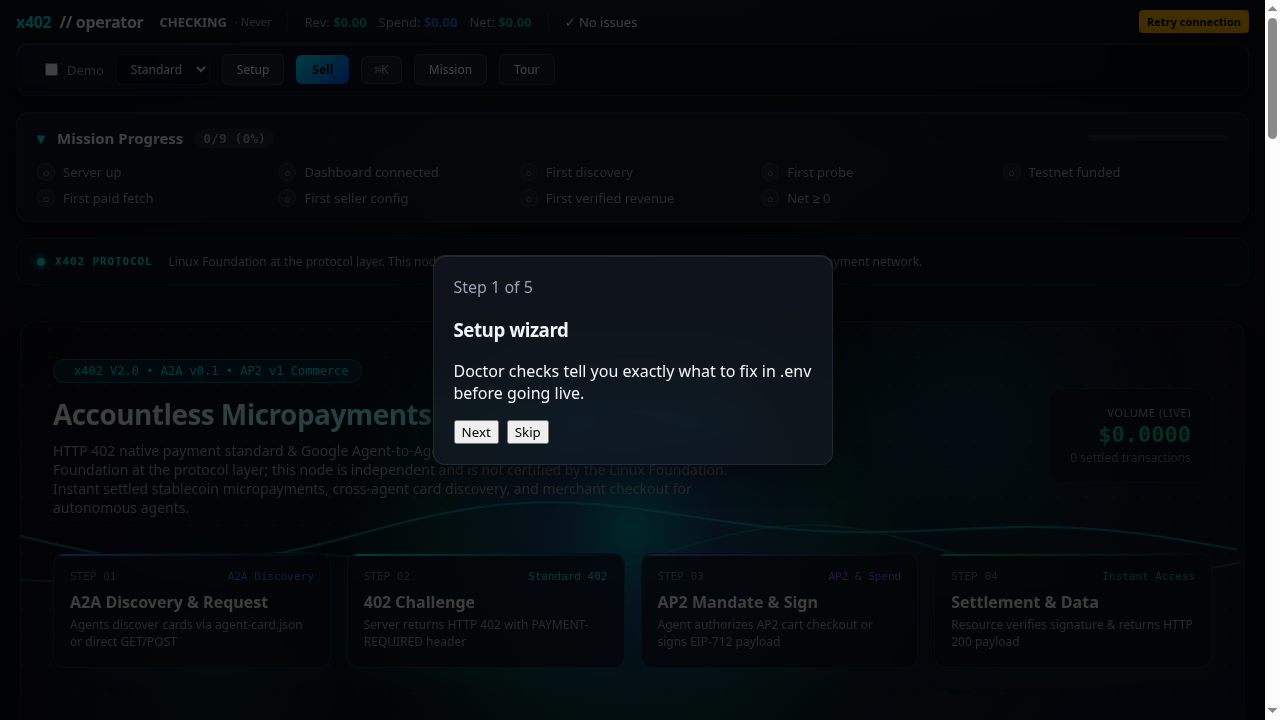
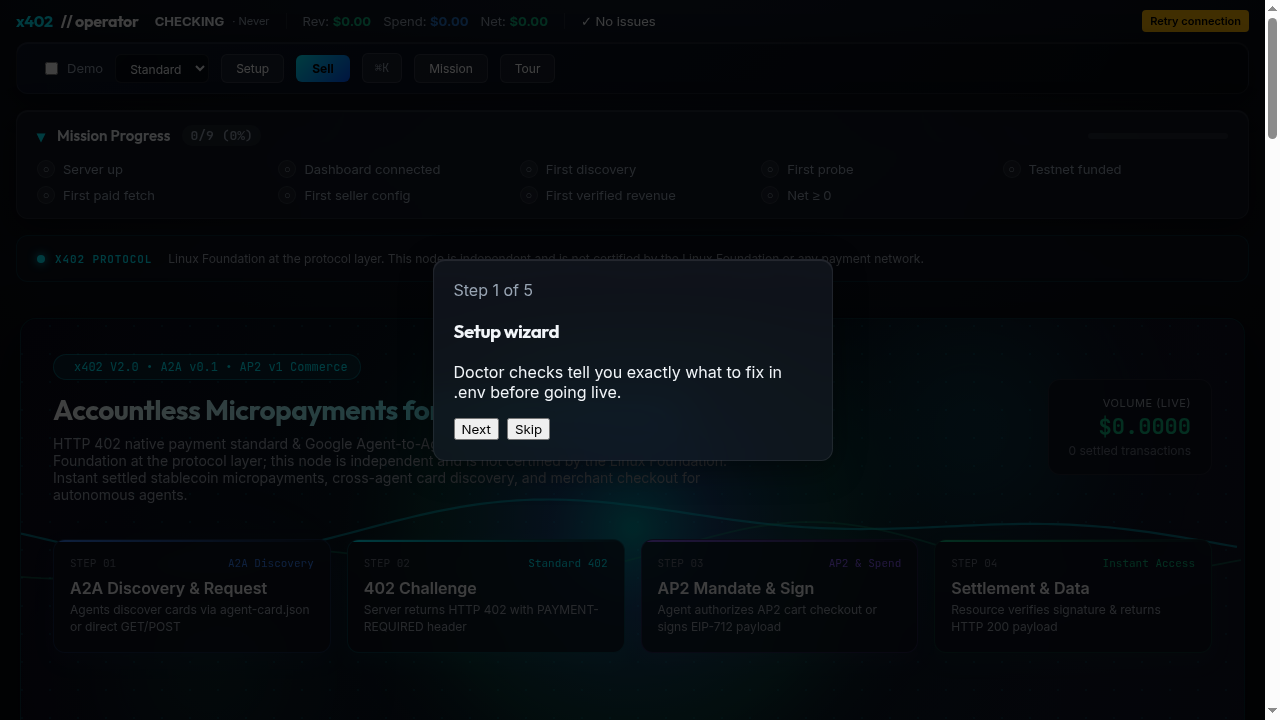
Point Mission Control links to x402-mcp Render dashboard
Use https://x402-mcp.onrender.com/dashboard for all Mission Control
CTAs and refresh the project card screenshot from that URL.

diff --git a/index.html b/index.html
@@ -176,7 +176,7 @@
                 <ul class="grid sm:grid-cols-2 lg:grid-cols-3 gap-6 list-none p-0 m-0">
                     <li class="reveal group">
                         <article class="h-full flex flex-col rounded-2xl border border-white/10 bg-ink-soft overflow-hidden hover:border-violet-500/40 transition-colors shadow-xl shadow-black/20">
-                            <a href="https://kwizzlesurp.tech" target="_blank" rel="noopener noreferrer" class="block relative aspect-[16/10] overflow-hidden focus-ring">
+                            <a href="https://x402-mcp.onrender.com/dashboard" target="_blank" rel="noopener noreferrer" class="block relative aspect-[16/10] overflow-hidden focus-ring">
                                 <img src="/assets/img/mission-control.png" alt="" class="w-full h-full object-cover object-top group-hover:scale-[1.02] transition-transform duration-500" loading="lazy" width="640" height="400">
                                 <div class="absolute inset-0 card-shine pointer-events-none"></div>
                             </a>
@@ -184,10 +184,10 @@
                                 <div class="flex items-center gap-2 mb-2">
                                     <span class="text-xs font-mono px-2 py-0.5 rounded-full bg-violet-500/15 text-violet-200 border border-violet-500/20">Vite</span>
                                 </div>
-                                <h3 class="text-lg font-semibold mb-1"><a href="https://kwizzlesurp.tech" target="_blank" rel="noopener noreferrer" class="hover:text-violet-300 focus-ring rounded">x402 Mission Control</a></h3>
+                                <h3 class="text-lg font-semibold mb-1"><a href="https://x402-mcp.onrender.com/dashboard" target="_blank" rel="noopener noreferrer" class="hover:text-violet-300 focus-ring rounded">x402 Mission Control</a></h3>
                                 <p class="text-sm text-zinc-400 leading-relaxed flex-grow">Real-time analytics, diagnostics, and A2A discovery catalog for the x402-mcp micropayment node.</p>
                                 <div class="mt-4 flex flex-wrap gap-3 text-sm font-medium">
-                                    <a href="https://kwizzlesurp.tech" target="_blank" rel="noopener noreferrer" class="text-sky-300 hover:text-sky-200 focus-ring rounded">Live →</a>
+                                    <a href="https://x402-mcp.onrender.com/dashboard" target="_blank" rel="noopener noreferrer" class="text-sky-300 hover:text-sky-200 focus-ring rounded">Live →</a>
                                     <a href="https://x402-mission-control.vercel.app" target="_blank" rel="noopener noreferrer" class="text-zinc-500 hover:text-zinc-300 focus-ring rounded font-mono text-xs">alt deploy</a>
                                 </div>
                             </div>
@@ -303,7 +303,7 @@
                         </p>
 
                         <div class="flex flex-col sm:flex-row gap-3 mb-8">
-                            <a href="https://kwizzlesurp.tech" class="inline-flex justify-center items-center gap-2 px-6 py-3.5 rounded-xl font-semibold bg-gradient-to-r from-emerald-500 to-teal-400 text-ink hover:brightness-110 transition focus-ring">
+                            <a href="https://x402-mcp.onrender.com/dashboard" class="inline-flex justify-center items-center gap-2 px-6 py-3.5 rounded-xl font-semibold bg-gradient-to-r from-emerald-500 to-teal-400 text-ink hover:brightness-110 transition focus-ring">
                                 Mission Control
                             </a>
                             <a href="https://x402-mcp.onrender.com" class="inline-flex justify-center items-center gap-2 px-6 py-3.5 rounded-xl font-semibold border border-emerald-500/30 text-emerald-200 hover:bg-emerald-500/10 transition focus-ring">
